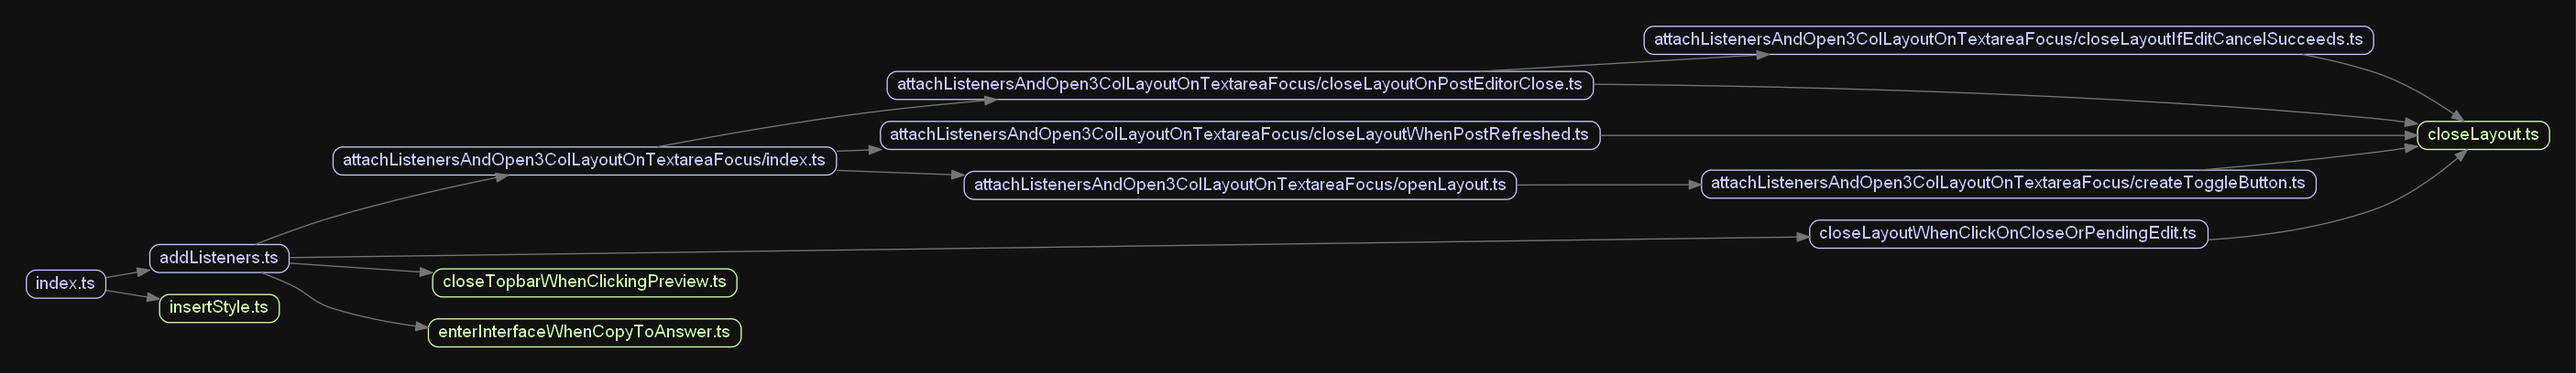
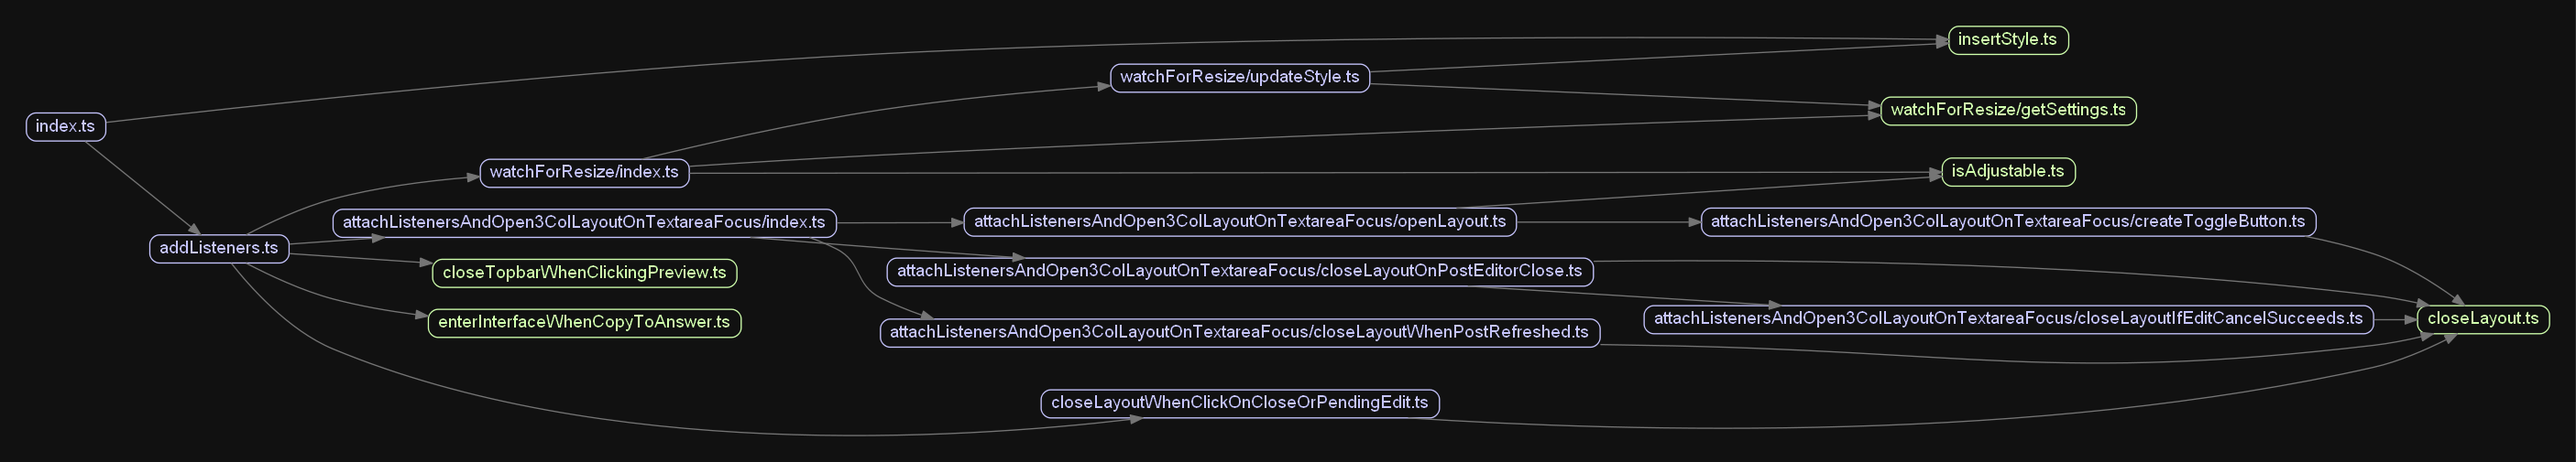
Added ability to resize columns
Fixed a bunch of other small bugs too

diff --git a/Three-Columns/src/styleText.scss b/Three-Columns/src/styleText.scss
@@ -1,5 +1,8 @@
 // Use data attributes to reduce chance of selector collisions
 
+// There are a few lines which contain something like `/* replace-col1-width */`.
+// These lines may be targeted and dynamically adjusted via JS.
+
 // For the most part, there are only CSS changes while the user is in the 3-column layout
 // which is toggled via an attribute on the <html>:
 html[data-cpuserscript-three-columns-layout-open] {
@@ -17,9 +20,27 @@ html[data-cpuserscript-three-columns-layout-open] {
         overflow-y: hidden;
     }
 
+    $resizer: "[data-cpuserscript-three-columns-post-root] [data-resizer]";
     $first-column: '#mainbar, #post-form[action="/questions/ask/submit"]';
     $second-column: "[data-cpuserscript-three-columns-post-root]";
     $third-column: "[data-cpuserscript-three-columns-post-root] .wmd-preview, [data-cpuserscript-three-columns-edit-mainbar] .wmd-preview";
+    #{$resizer} {
+        position: fixed;
+        height: 100%;
+        z-index: 1002; // on top of everything
+        // 2px to make sure the border is visible regardless of zoom level, *and* isn't near-invisible due to a possible adjacent scrollbar
+        border-left: 2px solid black;
+        user-select: none; // otherwise, resizes will result in undesirable text selection
+        cursor: col-resize;
+        &:nth-last-child(2) {
+            left: calc(100% / 3);
+            /* replace-resizer1-left */
+        }
+        &:last-child {
+            left: calc(200% / 3);
+            /* replace-resizer2-left */
+        }
+    }
     #{$first-column},
     #{$second-column},
     #{$third-column} {
@@ -33,12 +54,15 @@ html[data-cpuserscript-three-columns-layout-open] {
         overflow-y: auto;
     }
     #{$first-column} {
-        left: 0;
-        width: 33%;
+        left: 0%;
+        width: calc(100% / 3);
+        /* replace-col1-width */
     }
     #{$third-column} {
-        left: 67%;
-        width: 33%;
+        left: calc(200% / 3);
+        /* replace-col3-left */
+        width: calc(100% / 3);
+        /* replace-col3-width */
     }
     // The below attribute applies to part of the first column, but the attribute is set only on the standalone /edit page,
     // whose structure makes using *only* the [data-cpuserscript-three-columns-post-root] (the second column) to apply rules impossible
@@ -58,8 +82,10 @@ html[data-cpuserscript-three-columns-layout-open] {
         flex-grow: 1;
     }
     #{$second-column} {
-        left: 33%;
-        width: 34%;
+        left: calc(100% / 3);
+        /* replace-col2-left */
+        width: calc(100% / 3);
+        /* replace-col2-width */
         @include verticalContainer;
         &.answer [id^="post-editor"],
         &.question [id^="post-editor"] {
@@ -128,6 +154,7 @@ html[data-cpuserscript-three-columns-layout-open] {
     }
     // Matches edit box on standalone edit page
     .ps-relative[data-cpuserscript-three-columns-post-root] {
+        z-index: 1002; // Needed to make the second resizer selectable
         @include psRelativeTextareaContainer;
     }
 }

diff --git a/Three-Columns/src/watchForResize/index.ts b/Three-Columns/src/watchForResize/index.ts
@@ -1,0 +1,46 @@
+import { isAdjustable } from '../isAdjustable';
+import { getSettings } from './getSettings';
+import { updateStyle } from './updateStyle';
+
+export const watchForResize = () => {
+    if (!isAdjustable) {
+        delete localStorage.cpUserscriptThreeColumnsAdjustable;
+        return;
+    }
+    // Load the possibly-personalized values into the CSS on pageload:
+    updateStyle();
+    window.addEventListener('mousedown', (mousedownEvent) => {
+        const target = mousedownEvent.target as HTMLElement;
+        if (!target.matches('[data-cpuserscript-three-columns-post-root] [data-resizer]')) {
+            return;
+        }
+        const isFirstResizer = target.nextElementSibling !== null;
+        const decimalLeftOfColumnLeftOfResizer = isFirstResizer ? 0 : target.closest('[data-cpuserscript-three-columns-post-root]')!.getBoundingClientRect().left;
+        const currentSettings = getSettings();
+        const mousemoveHandler = (mousemoveEvent: MouseEvent) => {
+            const newPageX = mousemoveEvent.pageX;
+            const pageWidth = document.documentElement.clientWidth;
+            const newPercentWidthOfColumnLeftOfResizer = 100 * Math.max((newPageX - decimalLeftOfColumnLeftOfResizer), 0) / pageWidth;
+            if (isFirstResizer) {
+                localStorage.cpUserscriptThreeColumnsAdjustable = JSON.stringify({
+                    firstColWidth: newPercentWidthOfColumnLeftOfResizer,
+                    secondColWidth: currentSettings.secondColWidth,
+                });
+            } else {
+                localStorage.cpUserscriptThreeColumnsAdjustable = JSON.stringify({
+                    firstColWidth: currentSettings.firstColWidth,
+                    secondColWidth: newPercentWidthOfColumnLeftOfResizer,
+                });
+            }
+            updateStyle();
+        };
+        window.addEventListener('mousemove', mousemoveHandler);
+        window.addEventListener(
+            'mouseup',
+            () => {
+                window.removeEventListener('mousemove', mousemoveHandler);
+            },
+            { once: true },
+        );
+    });
+};

diff --git a/Three-Columns/src/watchForResize/updateStyle.ts b/Three-Columns/src/watchForResize/updateStyle.ts
@@ -1,0 +1,33 @@
+// @ts-ignore
+// tslint:disable-next-line: no-implicit-dependencies
+import styleTextCss from 'raw-loader!../../build/styleText.css';
+import { changeStyle } from '../insertStyle';
+import { getSettings } from './getSettings';
+
+/**
+ * From the column width settings in localStorage, change the textContent of the userscript's <style> tag
+ * to display the saved column widths
+ */
+export const updateStyle = () => {
+    const { firstColWidth, secondColWidth } = getSettings();
+    // The above will be (numeric) percentages 0-100
+    const firstTwoColsTotalWidth = firstColWidth + secondColWidth;
+    const thirdColumnWidth = 100 - firstTwoColsTotalWidth;
+    // At very low width, the user probably doesn't care about the column in question; overflow will look silly
+    const widthNumToCssRules = (width: number) => `width: ${width}%; ${width < 5 ? 'overflow: hidden;' : ''}`;
+    const replaceObj: { [replaceProperty: string]: string } = {
+        'col1-width': widthNumToCssRules(firstColWidth),
+        'resizer1-left': `left: ${firstColWidth}%;`,
+        // tslint:disable-next-line: object-literal-sort-keys
+        'col2-left': `left: ${firstColWidth}%;`,
+        'col2-width': widthNumToCssRules(secondColWidth),
+        'resizer2-left': `left: ${firstTwoColsTotalWidth}%;`,
+        'col3-left': `left: ${firstTwoColsTotalWidth}%;`,
+        'col3-width': widthNumToCssRules(thirdColumnWidth),
+    };
+    const newCssText = (styleTextCss as string).replace(
+        /^ *\/\* replace-(\S+) \*\//gm,
+        (match, g1) => replaceObj[g1 as string] || match,
+    );
+    changeStyle(newCssText);
+};

diff --git a/Three-Columns/src/closeLayout.ts b/Three-Columns/src/closeLayout.ts
@@ -5,6 +5,9 @@ export const closeLayout = (scrollImmediately = false) => {
         // User is not in the 3-column layout; nothing to do
         return;
     }
+    oldPostRoot.querySelectorAll('[data-resizer]').forEach((resizer) => {
+        resizer.remove();
+    });
     // Restore the rows attribute to its default value (which was removed when the layout was opened):
     (oldPostRoot.querySelector('textarea.wmd-input') as HTMLTextAreaElement).rows = 15;
     oldPostRoot.querySelector('button[data-cpuserscript-three-columns-toggle]')!.textContent = 'Open 3-column layout';
@@ -12,6 +15,12 @@ export const closeLayout = (scrollImmediately = false) => {
     if (window.location.href.endsWith('/edit')) {
         document.querySelector('#mainbar')!.removeAttribute('data-cpuserscript-three-columns-edit-mainbar');
     }
+    /* The grippie bar is invisible in the 3-col interface.
+     * SE's JS sets style properties directly to it, which can rarely result in width issues after the layout is closed
+     * (like if user tries to review an edit while in 3-col interface on a post).
+     * Just remove all styles from it
+     */
+    oldPostRoot.querySelector<HTMLElement>('.grippie')!.removeAttribute('style');
     document.documentElement.removeAttribute('data-cpuserscript-three-columns-layout-open');
     window.$('html, body').animate({ scrollTop: $(oldPostRoot).offset()!.top - 55 }, scrollImmediately ? 0 : 200);
     postRootState.set(null);

diff --git a/Three-Columns/webpack.config.js b/Three-Columns/webpack.config.js
@@ -1,6 +1,7 @@
 const fs = require('fs');
 const path = require('path');
 const webpack = require('webpack');
+const { exec } = require('child_process');
 
 module.exports = ({ liveDev = false } = {}) => {
     const cwd = process.cwd();
@@ -31,7 +32,22 @@ module.exports = ({ liveDev = false } = {}) => {
             !liveDev && new webpack.BannerPlugin({
                 banner: fs.readFileSync('./src/userscript-metadata-block.js', 'utf-8'),
                 raw: true
-            })
+            }),
+            !liveDev && {
+                apply: (compiler) => {
+                    compiler.hooks.afterEmit.tap('AfterEmitPlugin', (compilation) => {
+                        const distTextContent = fs.readFileSync('./dist/StackThreeColumns.user.js', 'utf-8');
+                        // Only change the metadata block:
+                        fs.writeFileSync('./dist/StackThreeColumnsAdjustable.user.js', distTextContent.replace('Three Columns', 'Three Columns Adjustable'));
+                        /*
+                        exec('<path to your post-build script here>', (err, stdout, stderr) => {
+                            if (stdout) process.stdout.write(stdout);
+                            if (stderr) process.stderr.write(stderr);
+                        });
+                        */
+                    });
+                }
+            }
         ].filter(Boolean),
         stats: liveDev ? 'minimal' : 'normal',
     };

diff --git a/Three-Columns/src/attachListenersAndOpen3ColLayoutOnTextareaFocus/closeLayoutIfEditCancelSucceeds.ts b/Three-Columns/src/attachListenersAndOpen3ColLayoutOnTextareaFocus/closeLayoutIfEditCancelSucceeds.ts
@@ -4,7 +4,7 @@ import { closeLayout } from '../closeLayout';
  * Close layout if user confirms (via SE's window.confirm) that they want to discard the edit
  */
 export const closeLayoutIfEditCancelSucceeds = (child: HTMLElement) => {
-    /* A dialog is about to come up asking for confirmation that the user wants to stop editing. See:
+    /* A dialog may be about to come up asking for confirmation that the user wants to stop editing. See:
      * https://dev.stackoverflow.com/content//Js/full.en.js
      * search for: var cancelEdit = function (elem) {
      * SE's JS changes the .edit-post's handling-event data from 1 to 0 after the confirmation that an edit should be canceled
@@ -13,8 +13,8 @@ export const closeLayoutIfEditCancelSucceeds = (child: HTMLElement) => {
     const $editPost = window.$(child.closest('.post-layout')!.querySelector('.edit-post')!);
     // Give Stack Exchange's JS time to see the event, then see if the editor is still open:
     setTimeout(() => {
-        if ($editPost.data('handling-event') === 0) {
-            // User confirmed, they wanted to cancel the edit
+        if ($editPost.data('handling-event') !== 1) {
+            // User is no longer editing this post:
             closeLayout();
         }
     });

diff --git a/Three-Columns/src/closeLayoutWhenClickOnCloseOrPendingEdit.ts b/Three-Columns/src/closeLayoutWhenClickOnCloseOrPendingEdit.ts
@@ -8,7 +8,8 @@ import { closeLayout } from './closeLayout';
 export const closeLayoutWhenClickOnCloseOrPendingEdit = () => {
     const clickHandler = (e: MouseEvent) => {
         const target = e.target as HTMLElement;
-        if (!target.closest('html[data-three-columns-userscript]') || !target.closest('.close-question-link, a[id^="edit-pending"]')) {
+        // Continue main body of function only if layout is open *and* one of (.close-question-link or a[id^="edit-pending"]) is clicked
+        if (!target.closest('html[data-cpuserscript-three-columns-layout-open]') || !target.closest('.close-question-link, a[id^="edit-pending"]')) {
             return;
         }
         // Do not trigger SE's listeners for clicks on Edit / Close:

diff --git a/Three-Columns/src/insertStyle.ts b/Three-Columns/src/insertStyle.ts
@@ -5,9 +5,14 @@ import styleTextCss from 'raw-loader!../build/styleText.css';
 /* Most of the display changes are done through CSS alone. The only DOM modifications made by the userscript are:
  * Injected stylesheet
  * data- attributes on a few elements
- * buttons to open/close the layout
+ * Buttons to open/close the layout
+ * Column resizer lines
  */
+let styleTag: HTMLStyleElement;
 export const insertStyle = () => {
-    const styleTag = document.body.appendChild(document.createElement('style'));
+    styleTag = document.body.appendChild(document.createElement('style'));
     styleTag.textContent = styleTextCss as string;
+};
+export const changeStyle = (newStyleText: string) => {
+    styleTag.textContent = newStyleText;
 };

diff --git a/Three-Columns/src/addListeners.ts b/Three-Columns/src/addListeners.ts
@@ -2,10 +2,12 @@ import { attachListenersAndOpen3ColLayoutOnTextareaFocus } from './attachListene
 import { closeLayoutWhenClickOnCloseOrPendingEdit } from './closeLayoutWhenClickOnCloseOrPendingEdit';
 import { closeTopbarWhenClickingPreview } from './closeTopbarWhenClickingPreview';
 import { enterInterfaceWhenCopyToAnswer } from './enterInterfaceWhenCopyToAnswer';
+import { watchForResize } from './watchForResize';
 
 export const addListeners = () => {
     attachListenersAndOpen3ColLayoutOnTextareaFocus();
     closeLayoutWhenClickOnCloseOrPendingEdit();
     closeTopbarWhenClickingPreview();
     enterInterfaceWhenCopyToAnswer();
+    watchForResize();
 };

diff --git a/Three-Columns/src/attachListenersAndOpen3ColLayoutOnTextareaFocus/openLayout.ts b/Three-Columns/src/attachListenersAndOpen3ColLayoutOnTextareaFocus/openLayout.ts
@@ -1,3 +1,4 @@
+import { isAdjustable } from '../isAdjustable';
 import { createToggleButton } from './createToggleButton';
 import * as postRootState from './postRootState';
 
@@ -13,6 +14,9 @@ export const openLayout = (newPostRoot: HTMLElement) => {
         createToggleButton(newPostRoot, openLayout);
     } else {
         toggleButton.textContent = 'Close 3-column layout';
+    }
+    if (isAdjustable) {
+        newPostRoot.insertAdjacentHTML('beforeend', '<div data-resizer></div><div data-resizer></div>');
     }
     document.documentElement.setAttribute('data-cpuserscript-three-columns-layout-open', '');
     postRootState.set(newPostRoot);

diff --git a/Three-Columns/src/userscript-metadata-block.js b/Three-Columns/src/userscript-metadata-block.js
@@ -3,7 +3,7 @@
 // @description      When answering, editing, or asking, displays the question page, post textarea, and post preview in side-by-side columns
 // @author           CertainPerformance
 // @namespace        https://github.com/CertainPerformance/Stack-Exchange-Userscripts
-// @version          1.2.0
+// @version          1.3.0
 // @include          /^https://(?:[^/]+\.)?(?:(?:stackoverflow|serverfault|superuser|stackexchange|askubuntu|stackapps)\.com|mathoverflow\.net)/(?:posts/\d+/edit|questions/(?:\d+|ask))/
 // @grant            none
 // ==/UserScript==

diff --git a/Three-Columns/dist/StackThreeColumnsAdjustable.user.js b/Three-Columns/dist/StackThreeColumnsAdjustable.user.js
@@ -1,5 +1,5 @@
 // ==UserScript==
-// @name             Stack Three Columns
+// @name             Stack Three Columns Adjustable
 // @description      When answering, editing, or asking, displays the question page, post textarea, and post preview in side-by-side columns
 // @author           CertainPerformance
 // @namespace        https://github.com/CertainPerformance/Stack-Exchange-Userscripts
